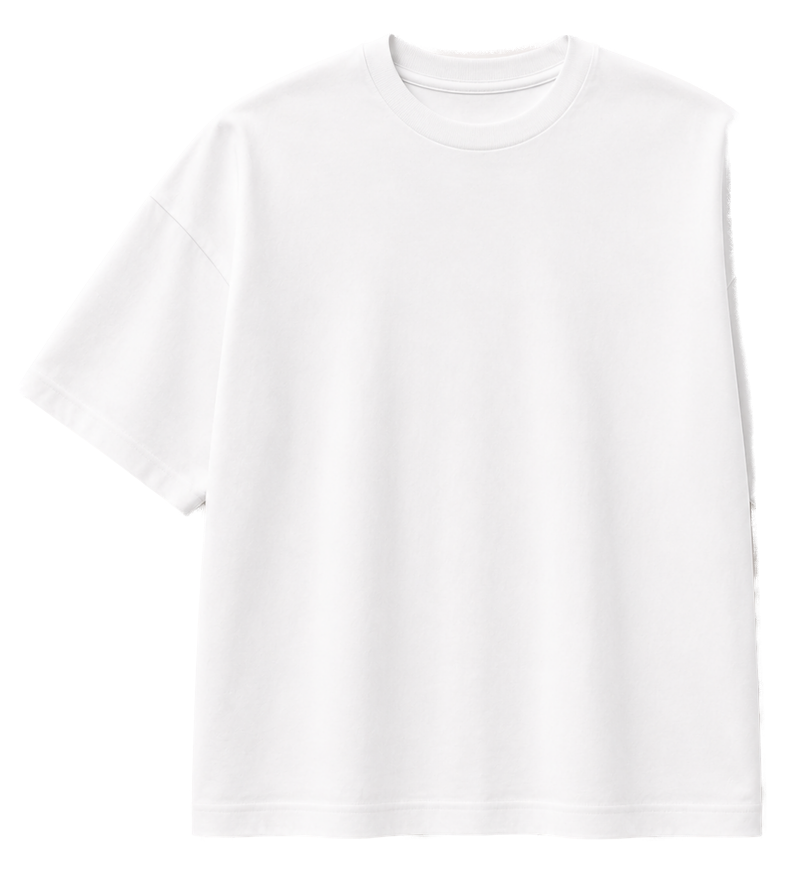
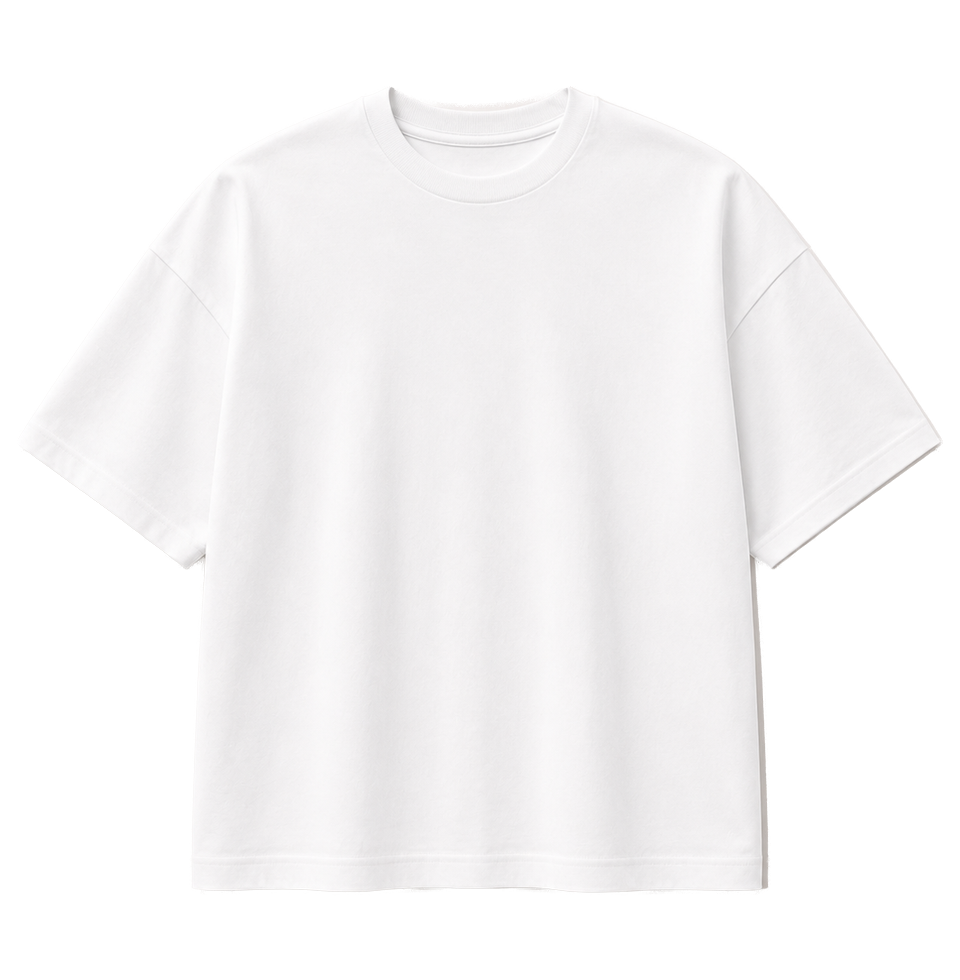
fix(home): restore full oversized T-shirt and add transparent polo
* test(assets): inspect existing oversized mask against original and polo source

* ci: inspect existing oversized garment crop and polo source

* test: reference oversized crop and polo photo

* fix(assets): restore missing oversized sleeve via symmetric mask and add polo

* ci: generate polo and repair oversized PNGs before deployment

* feat(home): add polo to swipe carousel and identify oversized styling

* style(home): make entire oversized t-shirt fit with safe side margins

* ci(assets): rebase asset commits on current design branch before pushing

* assets(home): repaired oversized sleeve and transparent polo

* fix(assets): restore RGB under oversized sleeve and exclude polo hanger and rack

* chore: remove temporary garment diagnostic script

* assets(home): repaired oversized sleeve and transparent polo

* test: visually verify transparent garment masks on contrasting background

* test: preview alpha garment compositing

* fix(polo): suppress residual wooden rack tones from contour

* assets(home): repaired oversized sleeve and transparent polo

* test: final alpha preview of clean polo and full oversized

* test: preview alpha garment compositing

* chore: remove temporary transparency diagnostic

* chore: remove temporary transparency diagnostic

* ci: retain reusable manual transparent-image regeneration workflow

---------

diff --git a/components/home/HomeChooser.tsx b/components/home/HomeChooser.tsx
@@ -41,9 +41,17 @@ const products: Product[] = [
     alt: "Gilet professionnel Caractère détouré",
   },
   {
+    id: "polo",
+    name: "Polo",
+    kind: "COLLECTION 04 — ENTREPRISES",
+    description: "Un polo élégant, brodé ou imprimé avec votre identité.",
+    src: "/home-cutouts/polo.png",
+    alt: "Polo blanc Caractère détouré",
+  },
+  {
     id: "tshirt",
     name: "T-shirt classique",
-    kind: "COLLECTION 04 — PERSONNALISATION",
+    kind: "COLLECTION 05 — PERSONNALISATION",
     description: "Votre idée mérite d'être portée. Impression ou broderie dès une pièce.",
     src: "/home-cutouts/tshirt.png",
     alt: "T-shirt classique Caractère détouré",
@@ -51,7 +59,7 @@ const products: Product[] = [
   {
     id: "casquette",
     name: "Casquette",
-    kind: "COLLECTION 05 — ACCESSOIRES",
+    kind: "COLLECTION 06 — ACCESSOIRES",
     description: "Le détail qui complète votre identité, avec votre logo.",
     src: "/home-cutouts/casquette.png",
     alt: "Casquette Caractère détourée",
@@ -59,7 +67,7 @@ const products: Product[] = [
   {
     id: "tote",
     name: "Tote bag",
-    kind: "COLLECTION 06 — ACCESSOIRES",
+    kind: "COLLECTION 07 — ACCESSOIRES",
     description: "Votre message, partout avec vous. Un accessoire à personnaliser.",
     src: "/home-cutouts/tote-bag.png",
     alt: "Tote bag Caractère détouré",
@@ -183,6 +191,7 @@ export default function HomeChooser() {
                   key={item.id}
                   className={styles.slot}
                   data-position={position}
+                  data-product={item.id}
                   style={{ transform: getTransform(position, dragX) }}
                   aria-hidden={position !== "center"}
                 >

diff --git a/components/home/HomeChooser.module.css b/components/home/HomeChooser.module.css
@@ -39,6 +39,12 @@
 .slot[data-position="hidden"] { z-index: 0; opacity: 0; visibility: hidden; }
 .isDragging .slot { transition: none; }
 .productImage { object-fit: contain; object-position: center; user-select: none; -webkit-user-drag: none; background: transparent !important; mix-blend-mode: normal; }
+/* Keep the complete sleeves comfortably inside the swipe frame. */
+.slot[data-product="oversized"] .productImage { transform: scale(.91); transform-origin: center; }
+@media (max-width: 720px) {
+  .slot[data-product="oversized"] .productImage { transform: scale(.90); }
+}
+
 .shadow { position: absolute; bottom: 7%; left: 50%; width: 33%; height: 19px; background: rgba(30,30,26,.1); filter: blur(19px); border-radius: 50%; transform: translateX(-50%); z-index: 1; pointer-events: none; }
 .dragHint { position: absolute; left: 50%; bottom: 0; transform: translateX(-50%); display: inline-flex; align-items: center; gap: 18px; color: #85877d; letter-spacing: .17em; font-weight: 700; font-size: 9px; z-index: 3; white-space: nowrap; pointer-events: none; }
 .dragHint span { color: #33372f; font-size: 19px; font-weight: 400; letter-spacing: 0; }

diff --git a/scripts/generate-home-cutouts.py b/scripts/generate-home-cutouts.py
@@ -7,7 +7,8 @@ load ready-made images. The original mockups stay untouched for the configurator
 from __future__ import annotations
 
 from pathlib import Path
-from PIL import Image, ImageChops
+from PIL import Image, ImageChops, ImageOps, ImageDraw, ImageFilter
+import argparse
 from rembg import new_session, remove
 
 ROOT = Path(__file__).resolve().parents[1]
@@ -18,6 +19,7 @@ PRODUCTS = {
     "tshirt-oversized": "tshirt_oversized_new.png",
     "hoodie": "hoodie_new.png",
     "gilet": "gilet.png",
+    "polo": "polo.jpg",
     "tshirt": "tshirt.png",
     "casquette": "casquette_new.png",
     "tote-bag": "totebag_new.png",
@@ -43,6 +45,64 @@ def process(session, name: str, filename: str) -> None:
     ).convert("RGBA")
 
     alpha = extracted.getchannel("A")
+    if name == "tshirt-oversized":
+        # The model erases the RIGHT SLEEVE of this otherwise complete source
+        # photograph. Rebuild *only its alpha mask* from the intact left side.
+        # Keep original photograph pixels, so the right sleeve keeps its own
+        # fabric lighting and folds rather than duplicating the image.
+        midpoint = source.width // 2
+        mirrored_alpha = ImageOps.mirror(alpha)
+        original_right = alpha.crop((midpoint, 0, source.width, source.height))
+        mirrored_right = mirrored_alpha.crop((midpoint, 0, source.width, source.height))
+        repaired = ImageChops.lighter(original_right, mirrored_right)
+        alpha.paste(repaired, (midpoint, 0))
+        # rembg discards RGB pixels where it removed the right sleeve.
+        # Restore the original photograph RGB under the recovered alpha mask.
+        extracted = source.copy()
+        extracted.putalpha(alpha)
+        print("Repaired oversized right sleeve using original pixels and symmetric alpha.")
+    if name == "polo":
+        # The polo photo is shot on a wooden rack. Generic matting preserves the
+        # rack, so trace the shirt outline explicitly, excluding the hanger.
+        # Points reference the full 512x512 source frame and scale to any size.
+        outline = [
+            (211, 134), (201, 140), (190, 147), (177, 152),
+            (157, 162), (145, 172), (130, 184), (116, 198),
+            (103, 211), (95, 223), (97, 231), (106, 239),
+            (116, 243), (128, 245), (141, 242), (154, 235),
+            (160, 230), (165, 248), (167, 282), (169, 324),
+            (173, 378), (175, 419), (176, 430), (179, 438),
+            (195, 441), (237, 441), (285, 441), (315, 443),
+            (329, 438), (335, 432), (337, 408), (339, 368),
+            (339, 313), (339, 268), (341, 244),
+            (350, 236), (362, 242), (373, 242), (386, 233),
+            (398, 224), (396, 214), (387, 201), (373, 183),
+            (360, 169), (347, 158), (329, 149), (307, 143),
+            (289, 135), (280, 131), (271, 140), (266, 149),
+            (253, 157), (244, 157), (236, 155), (222, 141)
+        ]
+        mask = Image.new("L", source.size, 0)
+        drawer = ImageDraw.Draw(mask)
+        coords = [(round(x * source.width / 512), round(y * source.height / 512)) for x, y in outline]
+        drawer.polygon(coords, fill=255)
+        # Remove the last visible rail pixels that overlap the shirt outline.
+        # Brown wooden parts have high red/yellow saturation; white garment
+        # fibers do not. Only pixels inside the hand-traced contour are checked.
+        rgb = source.load()
+        mask_px = mask.load()
+        for py in range(source.height):
+            for px in range(source.width):
+                if mask_px[px, py] < 10:
+                    continue
+                r, g, b, _ = rgb[px, py]
+                if r - g > 18 and g - b > 18 and b < 202:
+                    mask_px[px, py] = 0
+        mask = mask.filter(ImageFilter.GaussianBlur(radius=max(0.8, source.width / 650)))
+        alpha = mask
+        extracted = source.copy()
+        extracted.putalpha(alpha)
+        print("Isolated polo with custom garment contour (hanger + wooden rack excluded).")
+
     # Guard against the original bug (a totally transparent rectangle).
     hist = alpha.histogram()
     total = extracted.width * extracted.height
@@ -60,7 +120,9 @@ def process(session, name: str, filename: str) -> None:
     bbox = alpha.point(lambda px: 255 if px > 25 else 0).getbbox()
     if bbox is None:
         raise RuntimeError(f"{name} resulted in empty alpha.")
-    pad = max(18, int(min(source.size) * 0.035))
+    # Oversized sleeves need generous invisible breathing room.
+    pad_ratio = 0.09 if name == "tshirt-oversized" else 0.055
+    pad = max(30, int(min(source.size) * pad_ratio))
     cropped = extracted.crop((
         max(0, bbox[0] - pad), max(0, bbox[1] - pad),
         min(extracted.width, bbox[2] + pad),
@@ -78,10 +140,14 @@ def process(session, name: str, filename: str) -> None:
 
 
 def main() -> None:
-    # One reusable model session for all six articles, precomputed off-line.
+    parser = argparse.ArgumentParser()
+    parser.add_argument("--only", nargs="*", choices=sorted(PRODUCTS))
+    args = parser.parse_args()
+    targets = args.only if args.only else list(PRODUCTS)
+    # One model session, but only regenerate the two changed articles.
     session = new_session("u2net")
-    for name, filename in PRODUCTS.items():
-        process(session, name, filename)
+    for name in targets:
+        process(session, name, PRODUCTS[name])
 
 
 if __name__ == "__main__":
